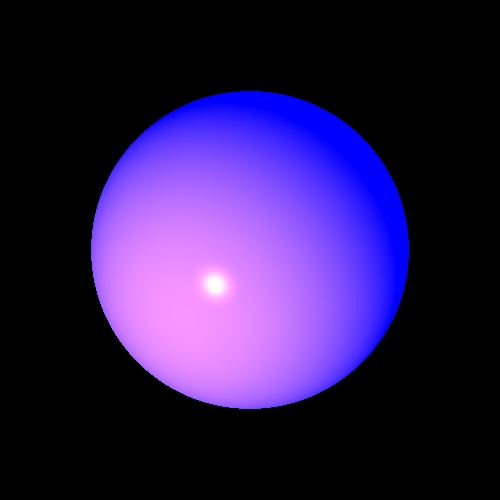
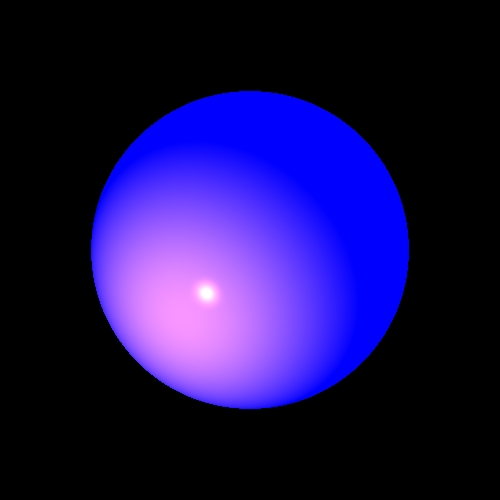
10:52 15/05/2020

Changed region(s): [[0.18, 0.21, 0.78, 0.84]]

diff --git a/src/Test/elementTest/LightsTests.java b/src/Test/elementTest/LightsTests.java
@@ -182,7 +182,7 @@ public class LightsTests {
      * Produce a picture of a sphere lighted by a spot light
      */
     @Test
-    public void sphereSpot2() {
+    public void spherePoint2() {
 
         Scene scene= new Scene.SceneBuilder("Test scene")
                 .addAmbientLight(new AmbientLight(Color.BLACK, 0))
@@ -195,10 +195,35 @@ public class LightsTests {
         scene.addGeometries(
                 new Sphere(new Color(java.awt.Color.BLUE), new Material(0.5, 0.5, 100), 50, new Point3D(0, 0, 50)));
 
-        scene.addLights(new SpotLight(new Color(500, 300, 0), new Point3D(-150, 150, -150),
-                new Vector(10, -10, 20), 1, 0.00001, 0.00000001));
+        scene.addLights(new PointLight(new Color(500, 300, 0),new Point3D(-50, 50, -50), 1, 0.00001, 0.00000001));
 
-        ImageWriter imageWriter = new ImageWriter("sphereSpot2", 150, 150, 500, 500);
+        ImageWriter imageWriter = new ImageWriter("spherePoint2", 150, 150, 500, 500);
+        Render render = new Render(imageWriter, scene);
+
+        render.renderImage();
+        render.writeToImage();
+    }
+
+    /**
+     * Produce a picture of a sphere lighted by a spot light
+     */
+    @Test
+    public void spherePoint3() {
+
+        Scene scene= new Scene.SceneBuilder("Test scene")
+                .addAmbientLight(new AmbientLight(Color.BLACK, 0))
+                .addCamera(new Camera(new Point3D(0, 0, -1000), new Vector(0, 0, 1), new Vector(2, -1, 0)))
+                .addDistance(1000)
+                .addBackground(Color.BLACK)
+                .build();
+
+
+        scene.addGeometries(
+                new Sphere(new Color(java.awt.Color.BLUE), new Material(0.5, 0.5, 100), 50, new Point3D(0, 0, 50)));
+
+        scene.addLights(new DirectionalLight(new Color(500, 300, 0) ,new Vector(-2, -2, -2)));
+
+        ImageWriter imageWriter = new ImageWriter("sphereDirectionalLight3", 150, 150, 500, 500);
         Render render = new Render(imageWriter, scene);
 
         render.renderImage();
